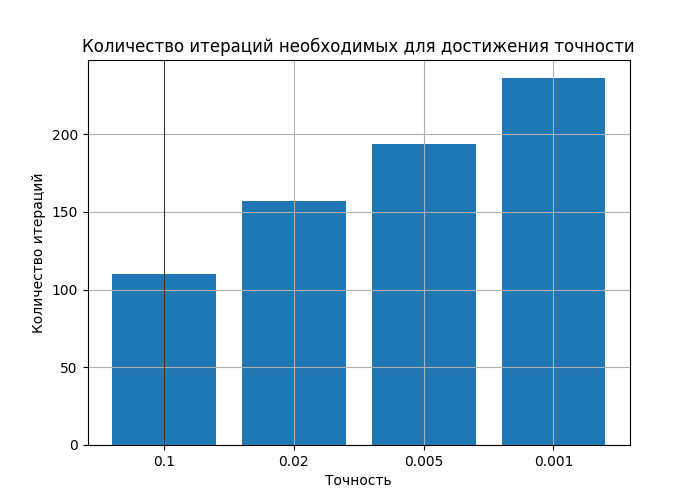
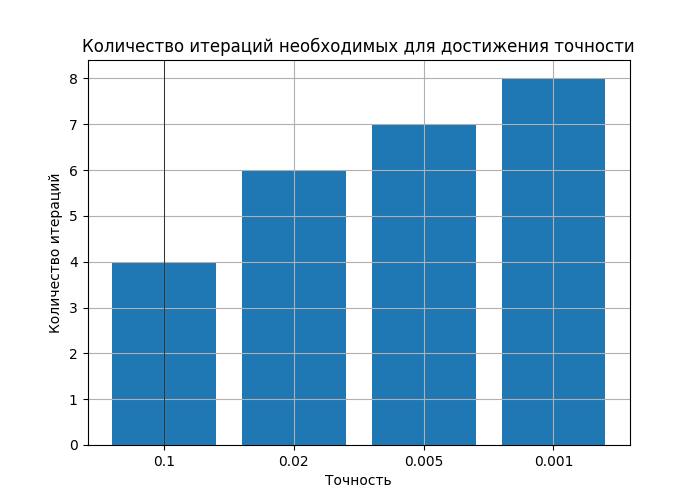
feat: inv matrix

diff --git a/Lab3/methods.py b/Lab3/methods.py
@@ -27,6 +27,16 @@ def method_kramer(matrix: np.ndarray) -> np.ndarray:
 def method_simple_iteration(matrix: np.ndarray, x0: np.array, accuracy: float) -> tuple[np.array, int, list]:
     n, m = np.shape(matrix)
 
+    matrix_a, vector_b = submatrices(matrix)
+
+    matrix_a[[4, 5]] = matrix_a[[5, 4]]
+
+    matrix_D = np.array([[15 if i == j else 1 for j in range(7)] for i in range(7)])
+    matrix_b = np.linalg.inv(matrix_a) @ matrix_D
+    matrix_d = matrix_b * vector_b
+
+    matrix_a, vector_b = matrix_D, matrix_d
+
     # Диагонально преобладающая матрица
     stable = False
     while not stable:
@@ -40,14 +50,15 @@ def method_simple_iteration(matrix: np.ndarray, x0: np.array, accuracy: float) -
                 stable = False
                 break
 
-    matrix_a, vector_b = submatrices(matrix)
 
     # Заполняем лямбду
     vector_lambda = np.array([-1 * (np.sign(matrix_ii) / (1 + abs(matrix_ii))) for matrix_ii in matrix_a.diagonal()])
-
+    print(vector_lambda)
     matrix_c = np.array([[1 + vector_lambda[i] * matrix_a[i, j] if i == j else vector_lambda[i] * matrix_a[i, j]
                           for j in range(m - 1)]
                           for i in range(n)])
+
+    print(max(abs(np.linalg.eig(matrix_c)[0])))
 
     if max(abs(np.linalg.eig(matrix_c)[0])) > 1:
         raise Exception("Достаточное условие не сходится")
